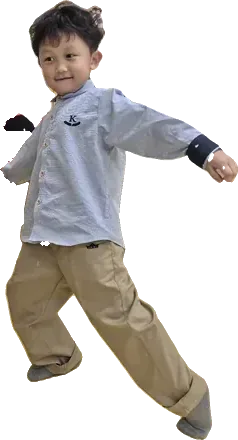
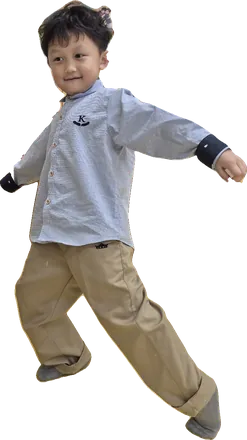
Clean up one child's cutout: keep the face and cuff, drop the wig stand
Claude-Session: https://claude.ai/code/session_01D92CZVbUmi6c4NpjFy9NNX

diff --git a/index.html b/index.html
@@ -1467,7 +1467,7 @@ button, a.knob { font: inherit; color: inherit; cursor: pointer; touch-action: m
   const walkerSize = (n) => (n <= 12 ? 118 : Math.max(70, Math.round(118 * 12 / n)));
   const queueSlot = (i, n, size) => { const sp = Math.min(118, 1380 / n); return { x: 50 + i * sp, y: 885 - size * 1.1 }; };
   // [file, width / height] — 새들1반 children photographed in class; one child is still to come
-  const KID_PHOTOS = [['kid01.webp', .38], ['kid02.webp', .541], ['kid03.webp', .343], ['kid04.webp', .377], ['kid05.webp', .282], ['kid06.webp', .243], ['kid07.webp', .348], ['kid08.webp', .325], ['kid09.webp', .35], ['kid10.webp', .327], ['kid11.webp', .373]];
+  const KID_PHOTOS = [['kid01.webp', .38], ['kid02.webp', .561], ['kid03.webp', .343], ['kid04.webp', .377], ['kid05.webp', .282], ['kid06.webp', .243], ['kid07.webp', .348], ['kid08.webp', .325], ['kid09.webp', .35], ['kid10.webp', .327], ['kid11.webp', .373]];
   function makeWalkers() {
     const layer = $('mart-walk');
     layer.innerHTML = '';

diff --git a/town/src/app.html b/town/src/app.html
@@ -1467,7 +1467,7 @@ button, a.knob { font: inherit; color: inherit; cursor: pointer; touch-action: m
   const walkerSize = (n) => (n <= 12 ? 118 : Math.max(70, Math.round(118 * 12 / n)));
   const queueSlot = (i, n, size) => { const sp = Math.min(118, 1380 / n); return { x: 50 + i * sp, y: 885 - size * 1.1 }; };
   // [file, width / height] — 새들1반 children photographed in class; one child is still to come
-  const KID_PHOTOS = [['kid01.webp', .38], ['kid02.webp', .541], ['kid03.webp', .343], ['kid04.webp', .377], ['kid05.webp', .282], ['kid06.webp', .243], ['kid07.webp', .348], ['kid08.webp', .325], ['kid09.webp', .35], ['kid10.webp', .327], ['kid11.webp', .373]];
+  const KID_PHOTOS = [['kid01.webp', .38], ['kid02.webp', .561], ['kid03.webp', .343], ['kid04.webp', .377], ['kid05.webp', .282], ['kid06.webp', .243], ['kid07.webp', .348], ['kid08.webp', .325], ['kid09.webp', .35], ['kid10.webp', .327], ['kid11.webp', .373]];
   function makeWalkers() {
     const layer = $('mart-walk');
     layer.innerHTML = '';
